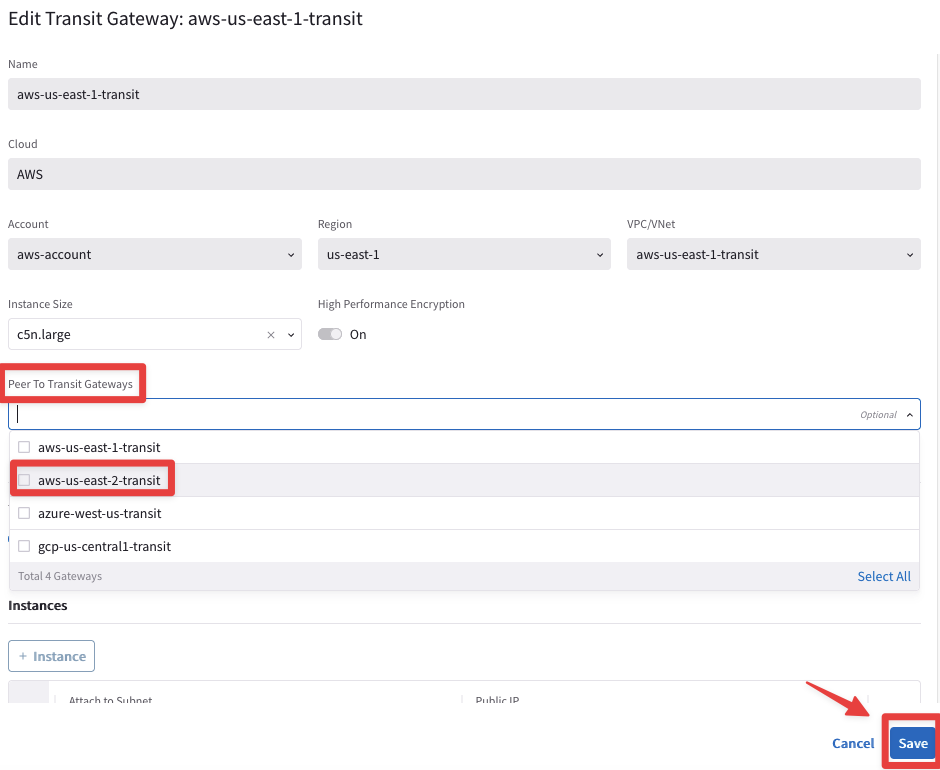
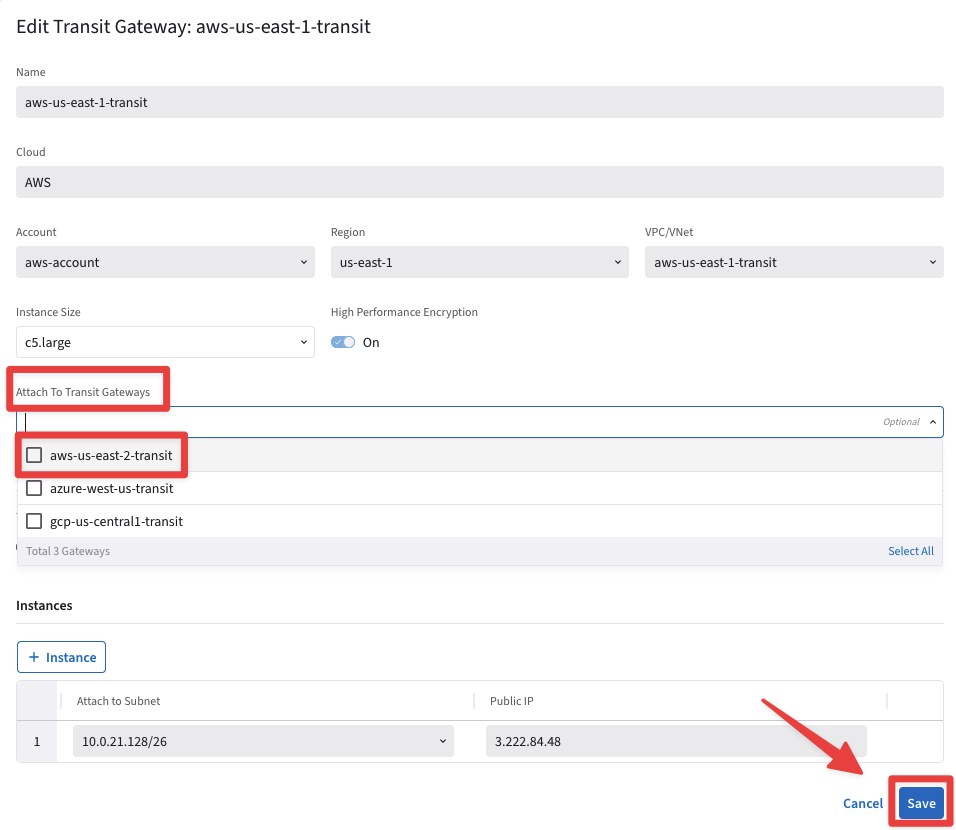
update for pro

diff --git a/ace_pro/docs/lab4.md b/ace_pro/docs/lab4.md
@@ -106,7 +106,7 @@ align: center
 Edit Transit in US-EAST-1
 ```
 
-Select the Transit Gateway **_aws-us-east-2-transit_** from the drop-down window `"Peer To Transit Gateways"`, and then click on **Save**.
+Select the Transit Gateway **_aws-us-east-2-transit_** from the drop-down window `"Attach To Transit Gateways"`, and then click on **Save**.
 
 ```{figure} images/lab5-peering2.png
 ---

diff --git a/ace_pro/docs/lab3.md b/ace_pro/docs/lab3.md
@@ -149,7 +149,7 @@ Logical View
 
 ## 6. Connectivity Testing after Applying the Network Segmentation
 
-Verify that each test instance can ping each other.
+Verify that you have applied the separation between the two segments.
 
 ### 6.1 Connectivity Test Using the Gatus App
 
